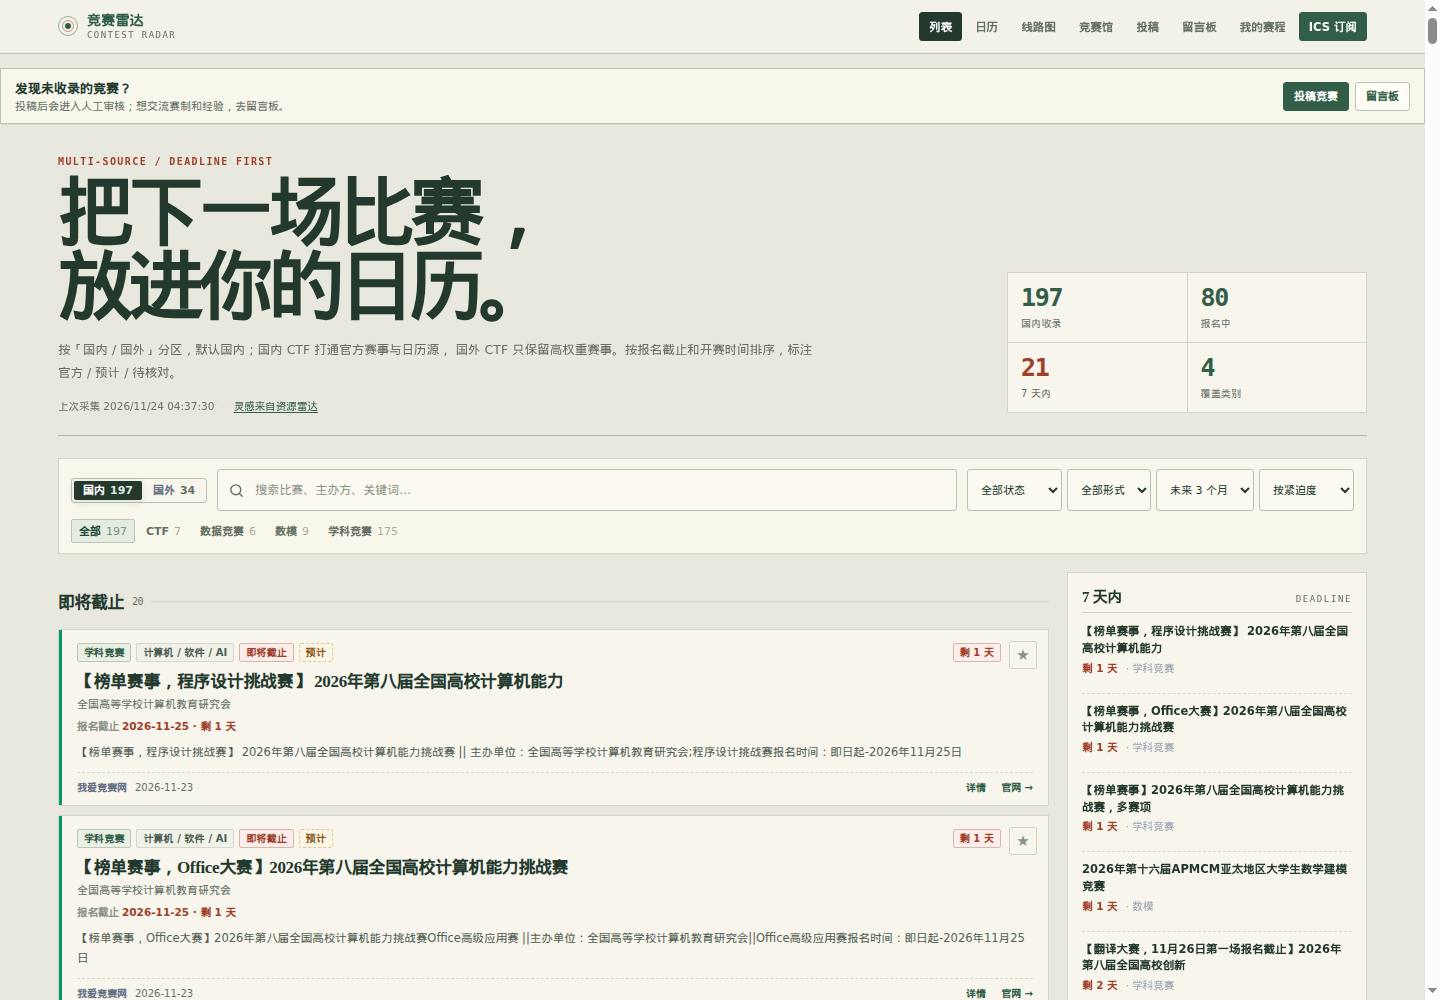
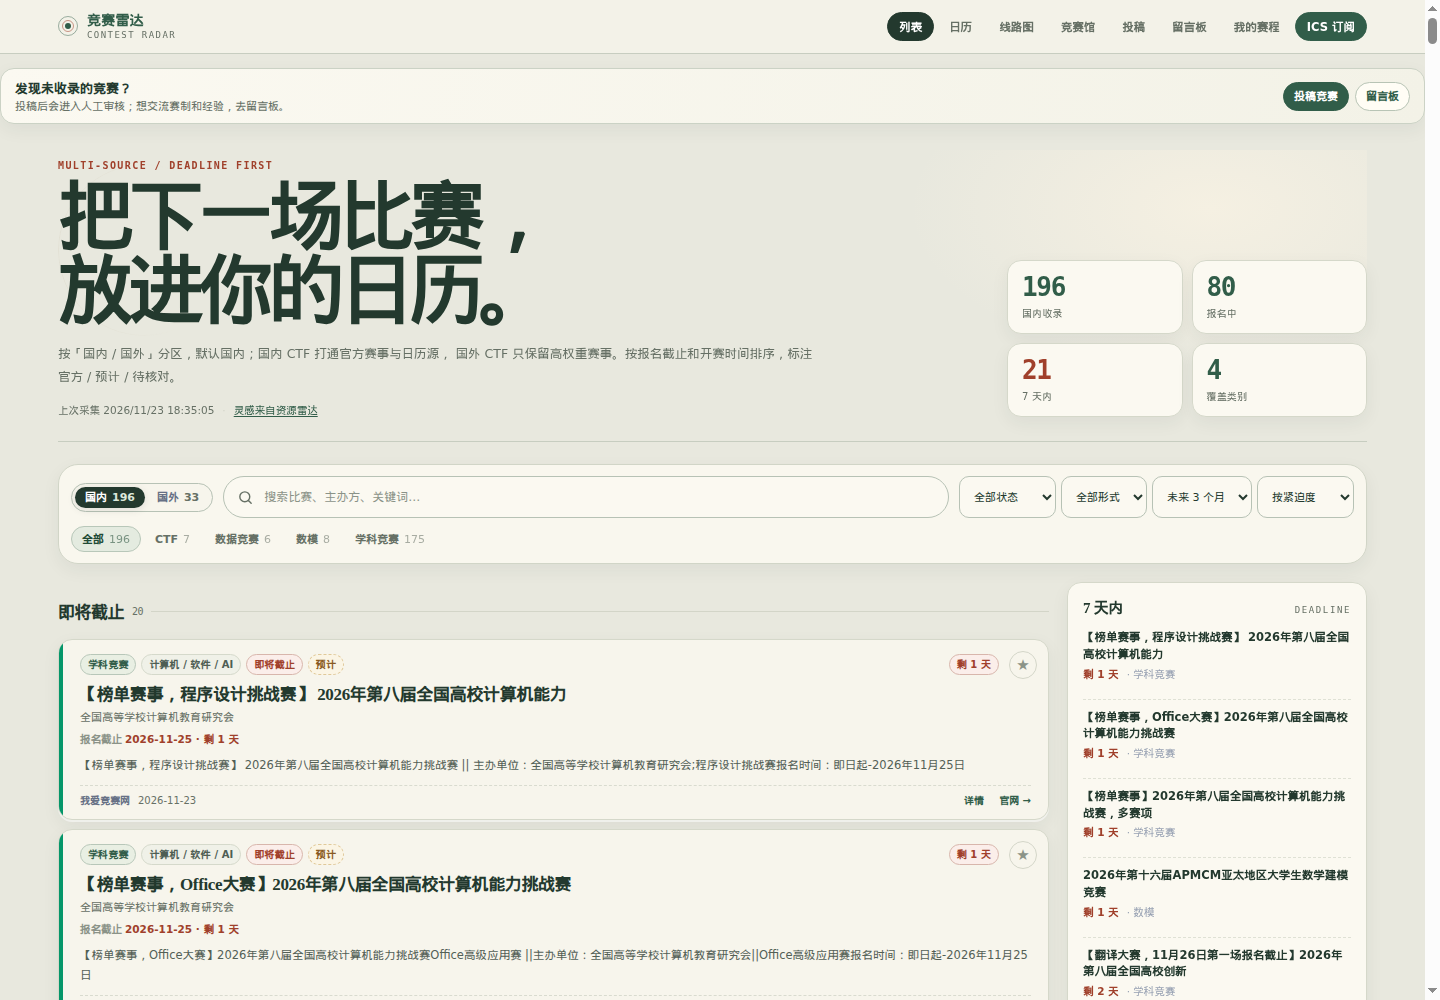
style: soften card list with rounded paper surfaces

diff --git a/public/list.css b/public/list.css
@@ -277,3 +277,142 @@ a { color: inherit; }
   .brand-text span { font-size: 8px; letter-spacing: .12em; }
   .brand { gap: 7px; }
 }
+
+/* Soft editorial layer: less boxed-in, more paper and air. */
+:root {
+  --radius: 16px;
+  --shadow: 0 16px 42px rgba(35, 57, 46, .08);
+  --soft-shadow: 0 6px 18px rgba(35, 57, 46, .06);
+  --r-sm: 8px;
+  --r-md: 14px;
+  --r-lg: 20px;
+  --pill: 999px;
+}
+body {
+  background:
+    radial-gradient(900px 520px at 85% -8%, #f7f4e8 0, transparent 62%),
+    radial-gradient(760px 480px at -5% 30%, #eef0e4 0, transparent 60%),
+    var(--bg);
+}
+.topbar { background: #f4f3e9e8; border-bottom-color: #c7cdc0; }
+.view-btn, .ics-btn { border-radius: var(--pill); padding: 6px 11px; }
+.view-btn.active { border-radius: var(--pill); }
+.ics-btn { border-radius: var(--pill); }
+.brand-mark { border-radius: 50%; }
+.quick-cta {
+  border-radius: var(--r-md);
+  border-color: #cbd2c5;
+  background: linear-gradient(100deg, #fbf9f1, #f3f2e7);
+  box-shadow: var(--soft-shadow);
+}
+.quick-links a { border-radius: var(--pill); }
+.shell { padding-top: 26px; }
+.hero {
+  position: relative;
+  border-bottom-color: #c7cdc0;
+  padding: 10px 0 24px;
+  background: radial-gradient(420px 220px at 88% 20%, #f5f0e2 0, transparent 72%);
+}
+.hero::before {
+  display: block;
+  content: "";
+  position: absolute;
+  right: 6%;
+  top: 14px;
+  width: 170px;
+  height: 170px;
+  border: 1px solid #d5cdbb;
+  border-radius: 50%;
+  opacity: .55;
+  pointer-events: none;
+}
+.hero-copy, .hero-stats { position: relative; z-index: 1; }
+.hero h1 { text-wrap: balance; }
+.hero-stats { gap: 9px; background: transparent; border: 0; }
+.stat {
+  border: 1px solid #d5d8ca;
+  border-radius: var(--r-md);
+  background: #fbf9f1;
+  box-shadow: var(--soft-shadow);
+  padding: 13px 14px;
+}
+.stat b { font-size: 26px; }
+.toolbar {
+  border-color: #d1d5c7;
+  border-radius: var(--r-lg);
+  background: #fbf9f1d9;
+  box-shadow: var(--soft-shadow);
+  padding: 11px 12px;
+}
+.region-switch { border-radius: var(--pill); padding: 3px; }
+.region-switch button { border-radius: var(--pill); padding: 5px 10px; }
+.search-wrap { border-radius: var(--pill); padding: 8px 13px; }
+.chip { border-radius: var(--pill); padding: 5px 10px; }
+.selects select { border-radius: 10px; padding: 7px 10px; }
+.card {
+  border-color: #d5d8ca;
+  border-radius: var(--r-md);
+  box-shadow: 0 2px 0 #ffffff80, var(--soft-shadow);
+  transition: transform 160ms ease, box-shadow 160ms ease, border-color 160ms ease;
+}
+.card:hover {
+  transform: translateY(-2px);
+  border-color: #b5c0b1;
+  box-shadow: 0 14px 30px rgba(35, 57, 46, .09);
+}
+.card .stripe { width: 4px; flex-basis: 4px; border-radius: var(--r-md) 0 0 var(--r-md); }
+.card-body { padding: 14px 17px 12px; }
+.badge { border-radius: var(--pill); padding: 3px 7px; }
+.fav-btn { width: 28px; height: 28px; border-radius: 50%; }
+.side { gap: 12px; }
+.panel {
+  border-color: #d5d8ca;
+  border-radius: var(--r-md);
+  background: #fbf9f1;
+  box-shadow: var(--soft-shadow);
+  padding: 14px 15px;
+}
+.panel-head { border-bottom: 0; padding-bottom: 2px; }
+.side-item { border-top: 1px dashed #dfe1d5; }
+.calendar-view, .favorites-view {
+  border-color: #d5d8ca;
+  border-radius: var(--r-lg);
+  background: #fbf9f1;
+  box-shadow: var(--soft-shadow);
+  padding: 18px;
+}
+.cal-nav button { border-radius: var(--pill); }
+.cal-cell { border-radius: 10px; border-color: #dfe1d5; }
+.cal-chip { border-radius: 6px; }
+.my-tab { border-radius: var(--pill); }
+.btn { border-radius: var(--pill); padding: 7px 12px; }
+.profile-block { border-radius: var(--r-md); border-color: #d5d8ca; background: #fbf9f1; }
+.profile-field select, .profile-field input[type="date"], .unavailable-add input { border-radius: 10px; }
+.dir-row select { border-radius: 10px; }
+.match-reasons { border-radius: 12px; }
+.stage-timeline { border-radius: 12px; }
+.stage-row .st { border-radius: var(--pill); }
+.modal-card { border: 0; border-radius: 22px; box-shadow: 0 30px 90px #16251d66; }
+.modal-close { width: 32px; height: 32px; border-radius: 50%; background: #f1f0e6; }
+.modal .tag { border-radius: var(--pill); }
+.empty { border-radius: var(--r-md); background: #fbf9f1; }
+.match-block .card { border-radius: var(--r-md); }
+.footer { border-top-color: #cbd0c3; }
+@media (max-width: 980px) {
+  .toolbar { border-radius: 16px; }
+}
+@media (max-width: 620px) {
+  .quick-cta { border-radius: 14px; }
+  .hero { background: none; }
+  .hero::before { display: none; }
+  .hero h1 { font-size: 42px; }
+  .stat { border-radius: 12px; }
+  .toolbar { border-radius: 16px; }
+  .card { border-radius: 13px; }
+  .calendar-view, .favorites-view { border-radius: 14px; }
+  .modal-card { border-radius: 18px; }
+}
+@media (max-width: 620px) {
+  .selects { display: grid; grid-template-columns: 1fr 1fr; gap: 6px; }
+  .selects select { width: 100%; min-width: 0; }
+}

diff --git a/public/index.html b/public/index.html
@@ -19,7 +19,7 @@
   <link rel="icon" type="image/svg+xml" href="/favicon.svg" />
   <link rel="alternate" type="text/calendar" title="竞赛雷达 ICS" href="/api/v1/ical/all.ics" />
   <link rel="stylesheet" href="/style.css?v=20261123j" />
-  <link rel="stylesheet" href="/list.css?v=20261124a" />
+  <link rel="stylesheet" href="/list.css?v=20261124c" />
 </head>
 <body>
   <header class="topbar">
